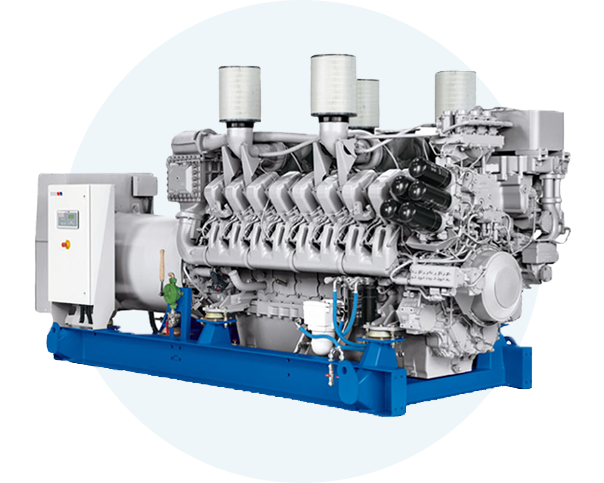
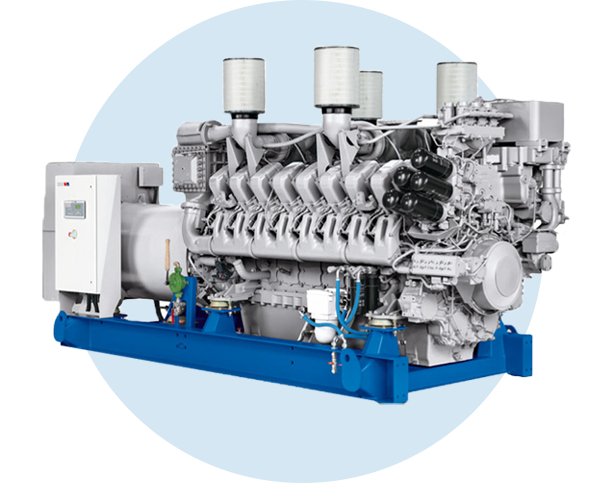
add image in slider, fix main image

diff --git a/index.html b/index.html
@@ -207,7 +207,7 @@
         <div class="row">
           <div class="col-xs-12">
             <div class="attention">
-              <p>Не допускается эксплуатация дизель-генератора под нагрузкой <span style="color: red; font-size: 21px;">менее 15%</span> от номинальной мощности длительное время.</p>
+              <p><span style="color: red; font-size: 21px;">Не допускается </span> эксплуатация дизель-генератора под нагрузкой <span style="color: red; font-size: 21px;"> менее 15% </span> от номинальной мощности длительное время.</p>
               <h4>Результат такой работы:</h4>
               <p>Повышенное потребление моторного масла, подтекание масла из турбонадува и попадание масла в выхлопной и в воздушный коллекторы.</p>
               <p>На двигатель в цилиндры поступает недостаточное количество топлива, что приводит к повышенному нагарообразованию. При таком режиме зазоры в цилиндропоршневой группе не достигают эксплуатационных размеров (увеличены), что приводит к излишнему попаданию масла в цилиндр.</p>
@@ -240,7 +240,14 @@
                 <img src="img/model/FPT.jpg" alt="FPT">
               </div>
               <div class="model-item">
+                <img src="img/model/BME.jpg" alt="BME">
+              </div>
+              <div class="model-item">
                 <img src="img/model/HATZ.jpg" alt="HATZ">
+              </div>
+              
+              <div class="model-item">
+                <img src="img/model/TCC.jpg" alt="TCC">
               </div>
               <div class="model-item">
                 <img src="img/model/Mitsubishi.jpg" alt="Mitsubishi">

diff --git a/css/main.css b/css/main.css
@@ -171,8 +171,8 @@ body {
   outline: none; }
 
 .header-img {
-  margin-top: 90px;
-  margin-left: -100px; }
+  margin-top: 85px;
+  margin-left: -105px; }
   @media only screen and (max-width: 1299px) {
     .header-img {
       margin-top: 60px;
@@ -184,6 +184,11 @@ body {
   .header-img img {
     position: relative;
     z-index: 100; }
+    @media only screen and (max-width: 1425px) {
+    .header-img img {
+        width: 100%; }
+    }
+
     @media only screen and (max-width: 1199px) {
       .header-img img {
         width: 422px;
